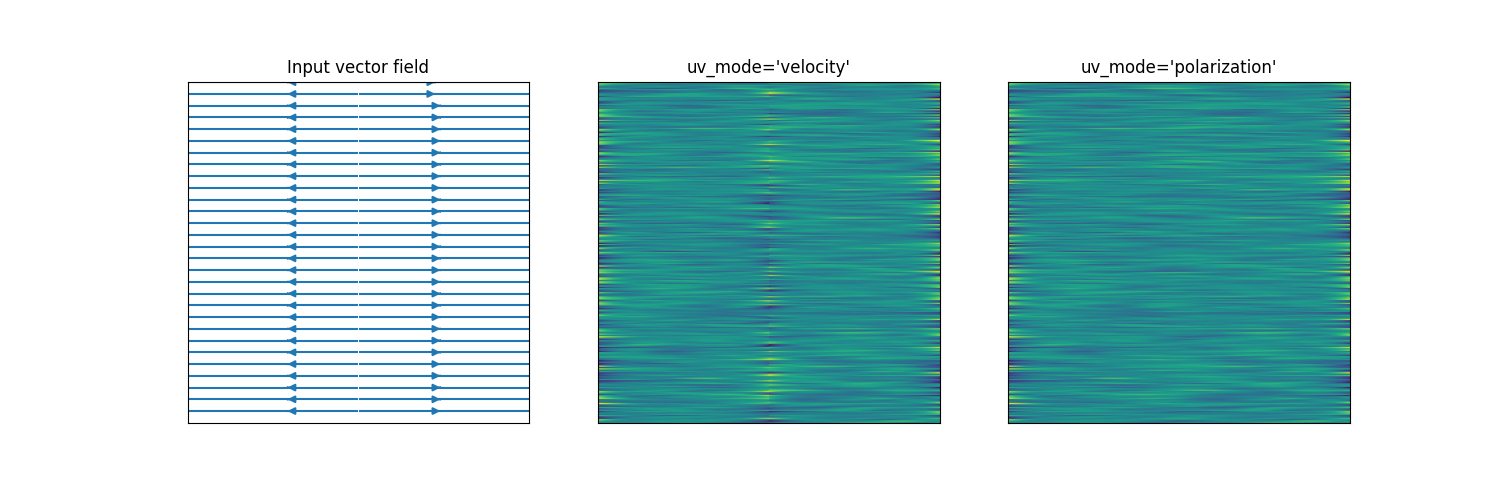
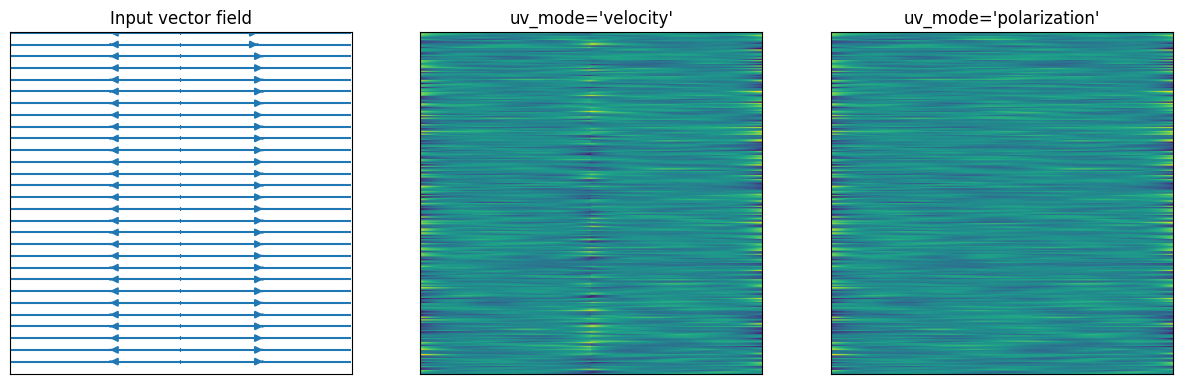
DOC: fix invalid example code and re-generate output image

diff --git a/CHANGELOG.md b/CHANGELOG.md
@@ -8,6 +8,7 @@ and this project adheres to [Semantic Versioning](https://semver.org/spec/v2.0.0
 
 - DOC: consistently indicate argument types (positional-only and keyword-only)
   in `rlic.convolve`'s docstring
+- DOC: fix invalid example code and re-generate output image
 
 ## 0.3.4 - 2025-04-09
 

diff --git a/README.md b/README.md
@@ -96,7 +96,7 @@ texture = prng.random(SHAPE)
 kernel = 1 - np.abs(np.linspace(-1, 1, 65, dtype="float64"))
 
 U0 = np.ones(SHAPE)
-ii = np.broadcast_to(np.arrange(NX), SHAPE)
+ii = np.broadcast_to(np.arange(NX), SHAPE)
 U = np.where(ii<NX/2, -U0, U0)
 V = np.zeros((NX, NX))
 
